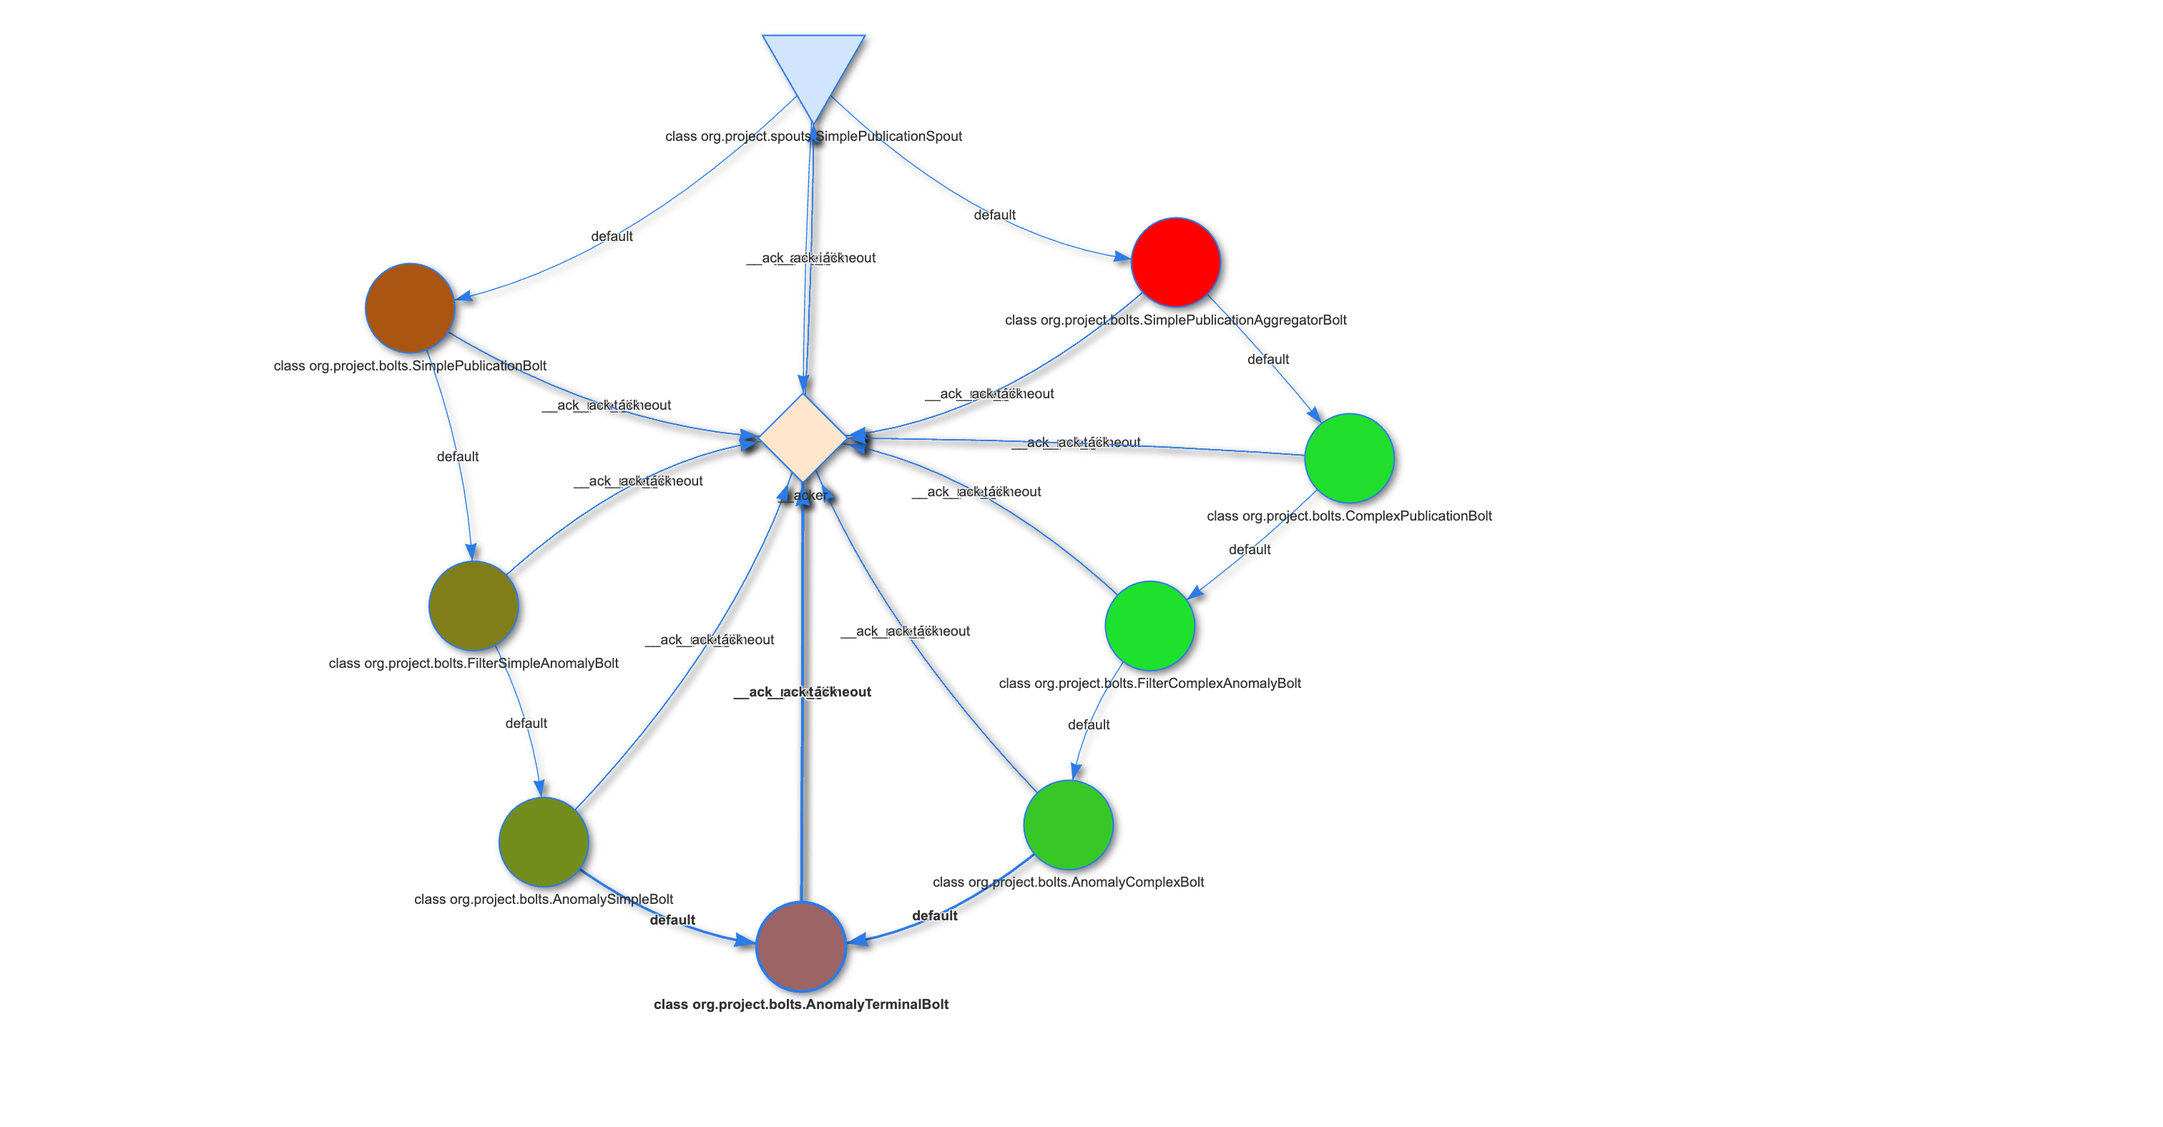
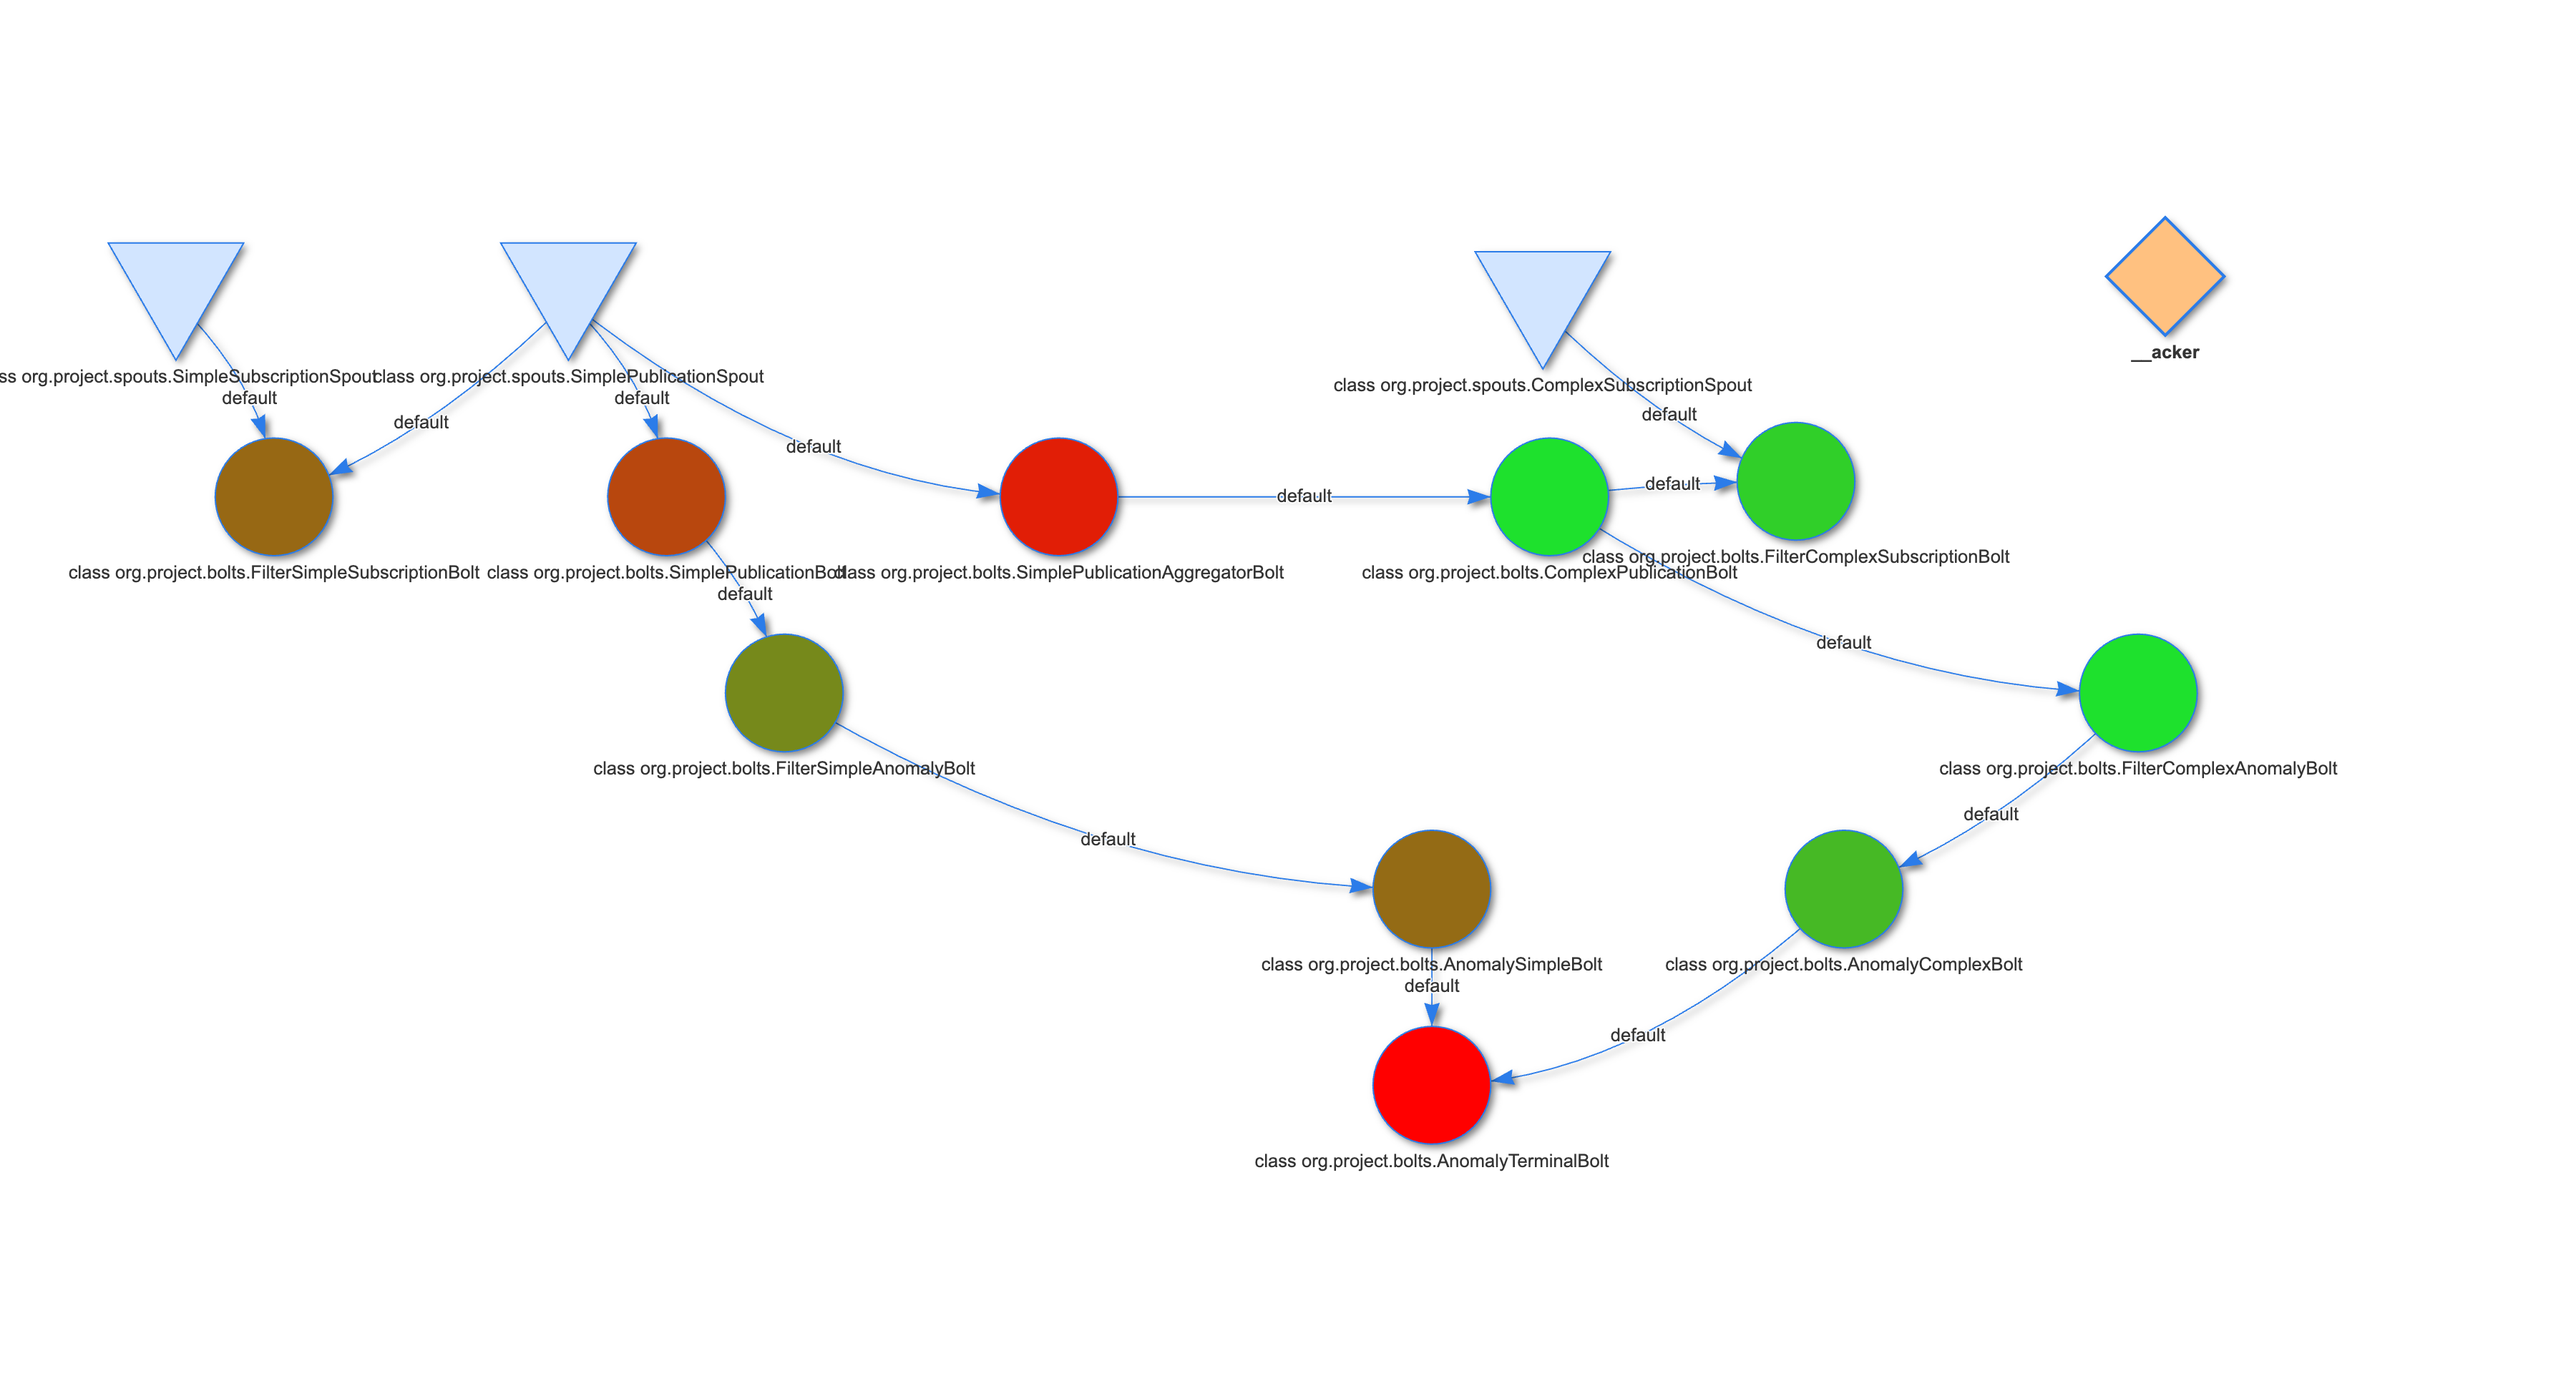
[Project] + subscription integration (part 2)

diff --git a/FinalProject/src/main/java/org/project/Application.java b/FinalProject/src/main/java/org/project/Application.java
@@ -17,7 +17,9 @@ import org.project.models.ProtoComplexPublication;
 import org.project.models.ProtoComplexSubscription;
 import org.project.models.ProtoSimplePublication;
 import org.project.models.ProtoSimpleSubscription;
+import org.project.spouts.ComplexSubscriptionSpout;
 import org.project.spouts.SimplePublicationSpout;
+import org.project.spouts.SimpleSubscriptionSpout;
 
 import java.io.Serializable;
 import java.util.List;
@@ -69,6 +71,8 @@ public class Application extends ConfigurableTopology {
                                 new BaseWindowedBolt.Count(SLIDING_INTERVAL));
         var complexPublicationBolt = new ComplexPublicationBolt();
         var simplePublicationBolt = new SimplePublicationBolt();
+
+        // handle anomalies
 
         var filterSimpleAnomalyBolt =
                 new FilterSimpleAnomalyBolt(
@@ -162,6 +166,37 @@ public class Application extends ConfigurableTopology {
                 )
                 .fieldsGrouping(AnomalySimpleBolt.ID,  new Fields("AnomalyType", "SimplePublication"))
                 .fieldsGrouping(AnomalyComplexBolt.ID,  new Fields("AnomalyType", "ComplexPublication"));
+
+        // handle subscribers
+
+        var simpleSubscriptionSpout = new SimpleSubscriptionSpout();
+        var complexSubscriptionSpout = new ComplexSubscriptionSpout();
+
+        builder.setSpout(
+                SimpleSubscriptionSpout.ID,
+                simpleSubscriptionSpout,
+                1);
+        builder.setSpout(
+                ComplexSubscriptionSpout.ID,
+                complexSubscriptionSpout,
+                1);
+
+        var filterSimpleSubscriptionBolt = new FilterSimpleSubscriptionBolt();
+        var filterComplexSubscriptionBolt = new FilterComplexSubscriptionBolt();
+
+        builder.setBolt(
+                FilterSimpleSubscriptionBolt.ID,
+                filterSimpleSubscriptionBolt,
+                1)
+                .fieldsGrouping(SimplePublicationSpout.ID,  new Fields("SimplePublication"))
+                .fieldsGrouping(SimpleSubscriptionSpout.ID, new Fields("SimpleSubscription"));
+
+        builder.setBolt(
+                FilterComplexSubscriptionBolt.ID,
+                filterComplexSubscriptionBolt,
+                1)
+                .fieldsGrouping(ComplexPublicationBolt.ID,  new Fields("ComplexPublication"))
+                .fieldsGrouping(ComplexSubscriptionSpout.ID, new Fields("ComplexSubscription"));
 
         return builder;
     }

diff --git a/FinalProject/src/main/java/org/project/bolts/FilterComplexSubscriptionBolt.java b/FinalProject/src/main/java/org/project/bolts/FilterComplexSubscriptionBolt.java
@@ -1,0 +1,33 @@
+package org.project.bolts;
+
+import org.apache.log4j.Logger;
+import org.apache.storm.task.OutputCollector;
+import org.apache.storm.task.TopologyContext;
+import org.apache.storm.topology.OutputFieldsDeclarer;
+import org.apache.storm.topology.base.BaseRichBolt;
+import org.apache.storm.tuple.Tuple;
+
+import java.util.Map;
+
+public class FilterComplexSubscriptionBolt extends BaseRichBolt {
+
+    public static final String ID = FilterComplexSubscriptionBolt.class.toString();
+    private static final Logger LOG = Logger.getLogger(FilterComplexSubscriptionBolt.class);
+    private OutputCollector collector;
+
+    @Override
+    public void prepare(Map<String, Object> configuration, TopologyContext context, OutputCollector collector) {
+        this.collector = collector;
+    }
+
+    @Override
+    public void execute(Tuple input) {
+        LOG.info("Complex subscription events received!");
+        collector.ack(input);
+    }
+
+    @Override
+    public void declareOutputFields(OutputFieldsDeclarer declarer) {
+
+    }
+}

diff --git a/FinalProject/src/main/java/org/project/bolts/FilterSimpleSubscriptionBolt.java b/FinalProject/src/main/java/org/project/bolts/FilterSimpleSubscriptionBolt.java
@@ -1,0 +1,33 @@
+package org.project.bolts;
+
+import org.apache.log4j.Logger;
+import org.apache.storm.task.OutputCollector;
+import org.apache.storm.task.TopologyContext;
+import org.apache.storm.topology.OutputFieldsDeclarer;
+import org.apache.storm.topology.base.BaseRichBolt;
+import org.apache.storm.tuple.Tuple;
+
+import java.util.Map;
+
+public class FilterSimpleSubscriptionBolt extends BaseRichBolt {
+
+    public static final String ID = FilterSimpleSubscriptionBolt.class.toString();
+    private static final Logger LOG = Logger.getLogger(FilterSimpleSubscriptionBolt.class);
+    private OutputCollector collector;
+
+    @Override
+    public void prepare(Map<String, Object> configuration, TopologyContext context, OutputCollector collector) {
+        this.collector = collector;
+    }
+
+    @Override
+    public void execute(Tuple input) {
+        LOG.info("Simple subscription events received!");
+        collector.ack(input);
+    }
+
+    @Override
+    public void declareOutputFields(OutputFieldsDeclarer declarer) {
+
+    }
+}
